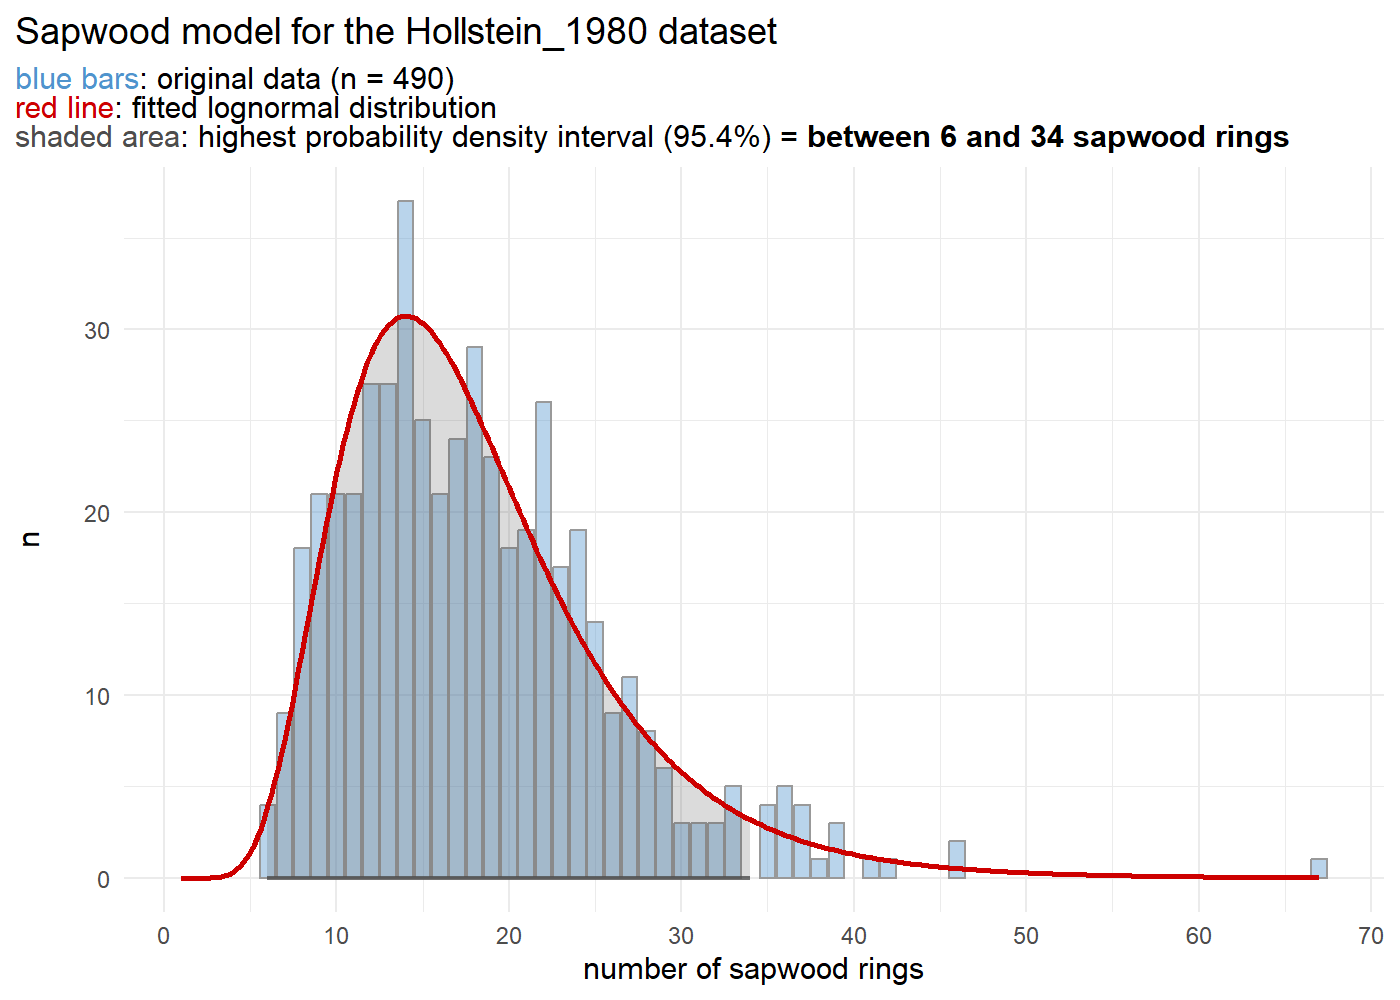
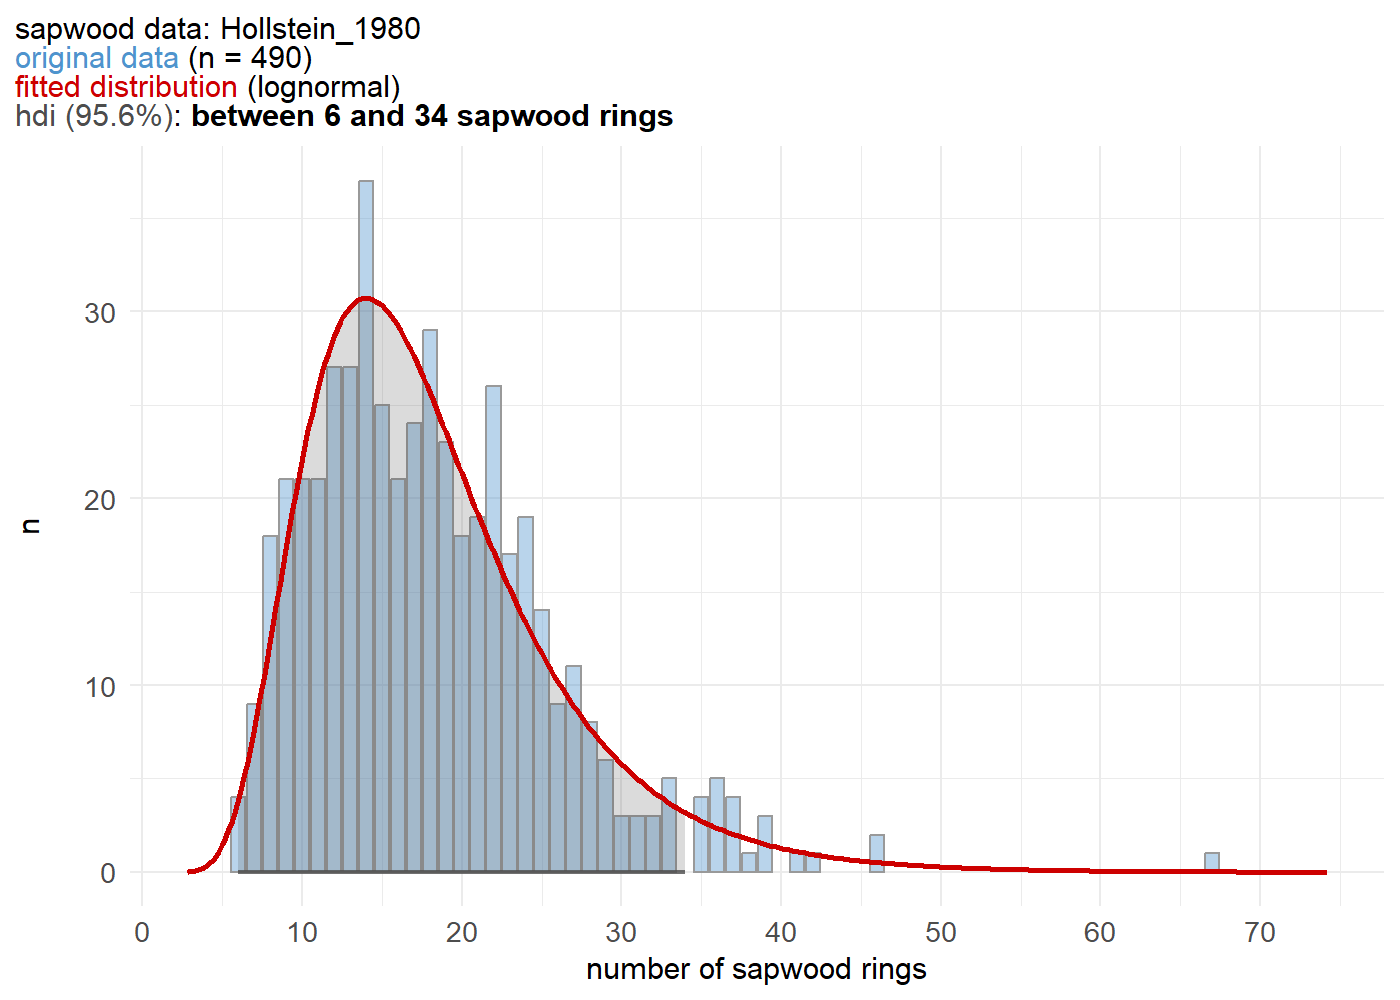
edit README (include plot = TRUE)

diff --git a/README.md b/README.md
@@ -81,132 +81,10 @@ The sapwood data used in the example above to estimate the felling date
 range, was published by Hollstein in 1980:
 
 ``` r
-sw_model("Hollstein_1980")
-#> $sapwood_data
-#> [1] "Hollstein_1980"
-#> 
-#> $n
-#> [1] 490
-#> 
-#> $range
-#>   min  mean   max 
-#>  6.00 25.05 67.00 
-#> 
-#> $density_function
-#> [1] "lognormal"
-#> 
-#> $fit_parameters
-#>     meanlog       sdlog   
-#>   2.81357890   0.41620736 
-#>  (0.01880233) (0.01329526)
-#> 
-#> $sapwood_model
-#>     n_sapwood            p    model_fit count
-#> 1           1 1.143856e-10 5.604897e-08    NA
-#> 2           2 1.107667e-06 5.427569e-04    NA
-#> 3           3 6.572161e-05 3.220359e-02    NA
-#> 4           4 6.697648e-04 3.281848e-01    NA
-#> 5           5 2.917879e-03 1.429761e+00    NA
-#> 6           6 7.845478e-03 3.844284e+00     4
-#> 7           7 1.558774e-02 7.637994e+00     9
-#> 8           8 2.528777e-02 1.239101e+01    18
-#> 9           9 3.557549e-02 1.743199e+01    21
-#> 10         10 4.511128e-02 2.210453e+01    21
-#> 11         11 5.291838e-02 2.593001e+01    21
-#> 12         12 5.847980e-02 2.865510e+01    27
-#> 13         13 6.168335e-02 3.022484e+01    27
-#> 14         14 6.270361e-02 3.072477e+01    37
-#> 15         15 6.187987e-02 3.032113e+01    25
-#> 16         16 5.961755e-02 2.921260e+01    21
-#> 17         17 5.632071e-02 2.759715e+01    24
-#> 18         18 5.235228e-02 2.565261e+01    29
-#> 19         19 4.801543e-02 2.352756e+01    23
-#> 20         20 4.354902e-02 2.133902e+01    18
-#> 21         21 3.913128e-02 1.917433e+01    19
-#> 22         22 3.488778e-02 1.709501e+01    26
-#> 23         23 3.090081e-02 1.514139e+01    17
-#> 24         24 2.721872e-02 1.333717e+01    19
-#> 25         25 2.386428e-02 1.169350e+01    14
-#> 26         26 2.084176e-02 1.021246e+01     9
-#> 27         27 1.814260e-02 8.889875e+00    11
-#> 28         28 1.574987e-02 7.717438e+00     8
-#> 29         29 1.364165e-02 6.684408e+00     6
-#> 30         30 1.179345e-02 5.778789e+00     3
-#> 31         31 1.017998e-02 4.988188e+00     3
-#> 32         32 8.776330e-03 4.300402e+00     3
-#> 33         33 7.558758e-03 3.703792e+00     5
-#> 34         34 6.505127e-03 3.187512e+00    NA
-#> 35         35 5.595166e-03 2.741631e+00     4
-#> 36         36 4.810558e-03 2.357174e+00     5
-#> 37         37 4.134922e-03 2.026112e+00     4
-#> 38         38 3.553733e-03 1.741329e+00     1
-#> 39         39 3.054196e-03 1.496556e+00     3
-#> 40         40 2.625106e-03 1.286302e+00    NA
-#> 41         41 2.256692e-03 1.105779e+00     1
-#> 42         42 1.940470e-03 9.508301e-01     1
-#> 43         43 1.669088e-03 8.178532e-01    NA
-#> 44         44 1.436201e-03 7.037387e-01    NA
-#> 45         45 1.236339e-03 6.058060e-01    NA
-#> 46         46 1.064793e-03 5.217487e-01     2
-#> 47         47 9.175209e-04 4.495852e-01    NA
-#> 48         48 7.910512e-04 3.876151e-01    NA
-#> 49         49 6.824083e-04 3.343801e-01    NA
-#> 50         50 5.890423e-04 2.886307e-01    NA
-#> 51         51 5.087694e-04 2.492970e-01    NA
-#> 52         52 4.397201e-04 2.154628e-01    NA
-#> 53         53 3.802943e-04 1.863442e-01    NA
-#> 54         54 3.291226e-04 1.612701e-01    NA
-#> 55         55 2.850331e-04 1.396662e-01    NA
-#> 56         56 2.470227e-04 1.210411e-01    NA
-#> 57         57 2.142330e-04 1.049741e-01    NA
-#> 58         58 1.859287e-04 9.110504e-02    NA
-#> 59         59 1.614803e-04 7.912533e-02    NA
-#> 60         60 1.403484e-04 6.877070e-02    NA
-#> 61         61 1.220707e-04 5.981464e-02    NA
-#> 62         62 1.062509e-04 5.206292e-02    NA
-#> 63         63 9.254883e-05 4.534893e-02    NA
-#> 64         64 8.067277e-05 3.952966e-02    NA
-#> 65         65 7.037208e-05 3.448232e-02    NA
-#> 66         66 6.143144e-05 3.010140e-02    NA
-#> 67         67 5.366574e-05 2.629621e-02     1
-#> 68         68 4.691575e-05 2.298872e-02    NA
-#> 69         69 4.104443e-05 2.011177e-02    NA
-#> 70         70 3.593374e-05 1.760753e-02    NA
-#> 71         71 3.148196e-05 1.542616e-02    NA
-#> 72         72 2.760137e-05 1.352467e-02    NA
-#> 73         73 2.421627e-05 1.186597e-02    NA
-#> 74         74 2.126129e-05 1.041803e-02    NA
-#> 75         75 1.867996e-05 9.153180e-03    NA
-#> 76         76 1.642343e-05 8.047483e-03    NA
-#> 77         77 1.444946e-05 7.080237e-03    NA
-#> 78         78 1.272146e-05 6.233514e-03    NA
-#> 79         79 1.120772e-05 5.491782e-03    NA
-#> 80         80 9.880763e-06 4.841574e-03    NA
-#> 81         81 8.716743e-06 4.271204e-03    NA
-#> 82         82 7.694957e-06 3.770529e-03    NA
-#> 83         83 6.797416e-06 3.330734e-03    NA
-#> 84         84 6.008483e-06 2.944157e-03    NA
-#> 85         85 5.314552e-06 2.604130e-03    NA
-#> 86         86 4.703779e-06 2.304852e-03    NA
-#> 87         87 4.165844e-06 2.041264e-03    NA
-#> 88         88 3.691753e-06 1.808959e-03    NA
-#> 89         89 3.273657e-06 1.604092e-03    NA
-#> 90         90 2.904707e-06 1.423306e-03    NA
-#> 91         91 2.578917e-06 1.263669e-03    NA
-#> 92         92 2.291057e-06 1.122618e-03    NA
-#> 93         93 2.036553e-06 9.979109e-04    NA
-#> 94         94 1.811399e-06 8.875853e-04    NA
-#> 95         95 1.612087e-06 7.899228e-04    NA
-#> 96         96 1.435545e-06 7.034171e-04    NA
-#> 97         97 1.279077e-06 6.267475e-04    NA
-#> 98         98 1.140316e-06 5.587548e-04    NA
-#> 99         99 1.017186e-06 4.984211e-04    NA
-#> 100       100 9.078620e-07 4.448524e-04    NA
-#> 
-#> $hdi_model
-#>   lower upper         p
-#> 1     6    34 0.9561202
+sw_model("Hollstein_1980", plot = TRUE)
 ```
+
+<img src="man/figures/README-model_sapwood_counts-1.png" width="100%" />
 
 ## Getting started
 
